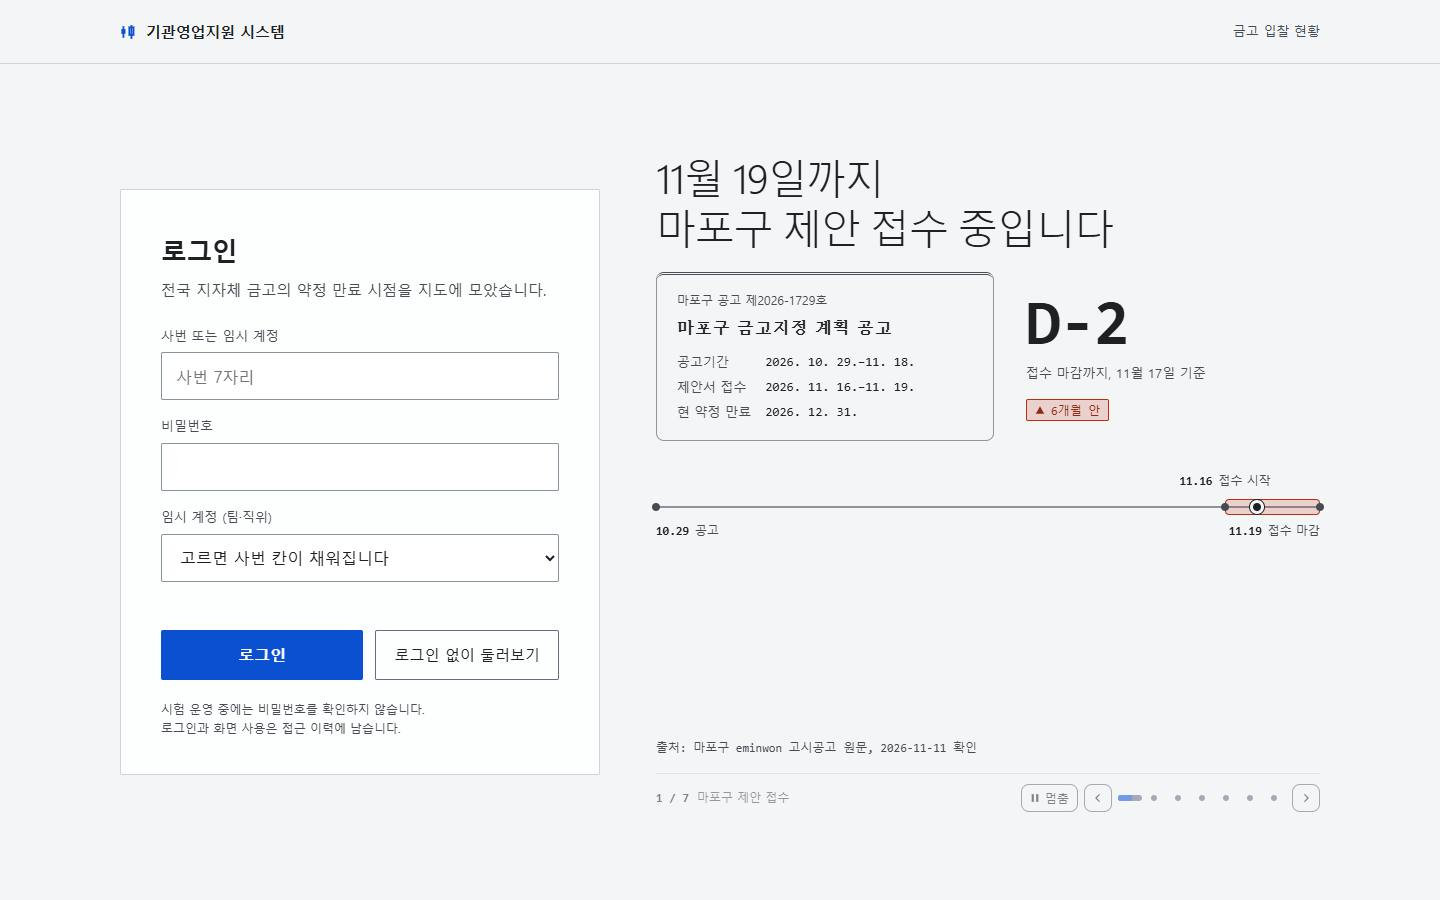
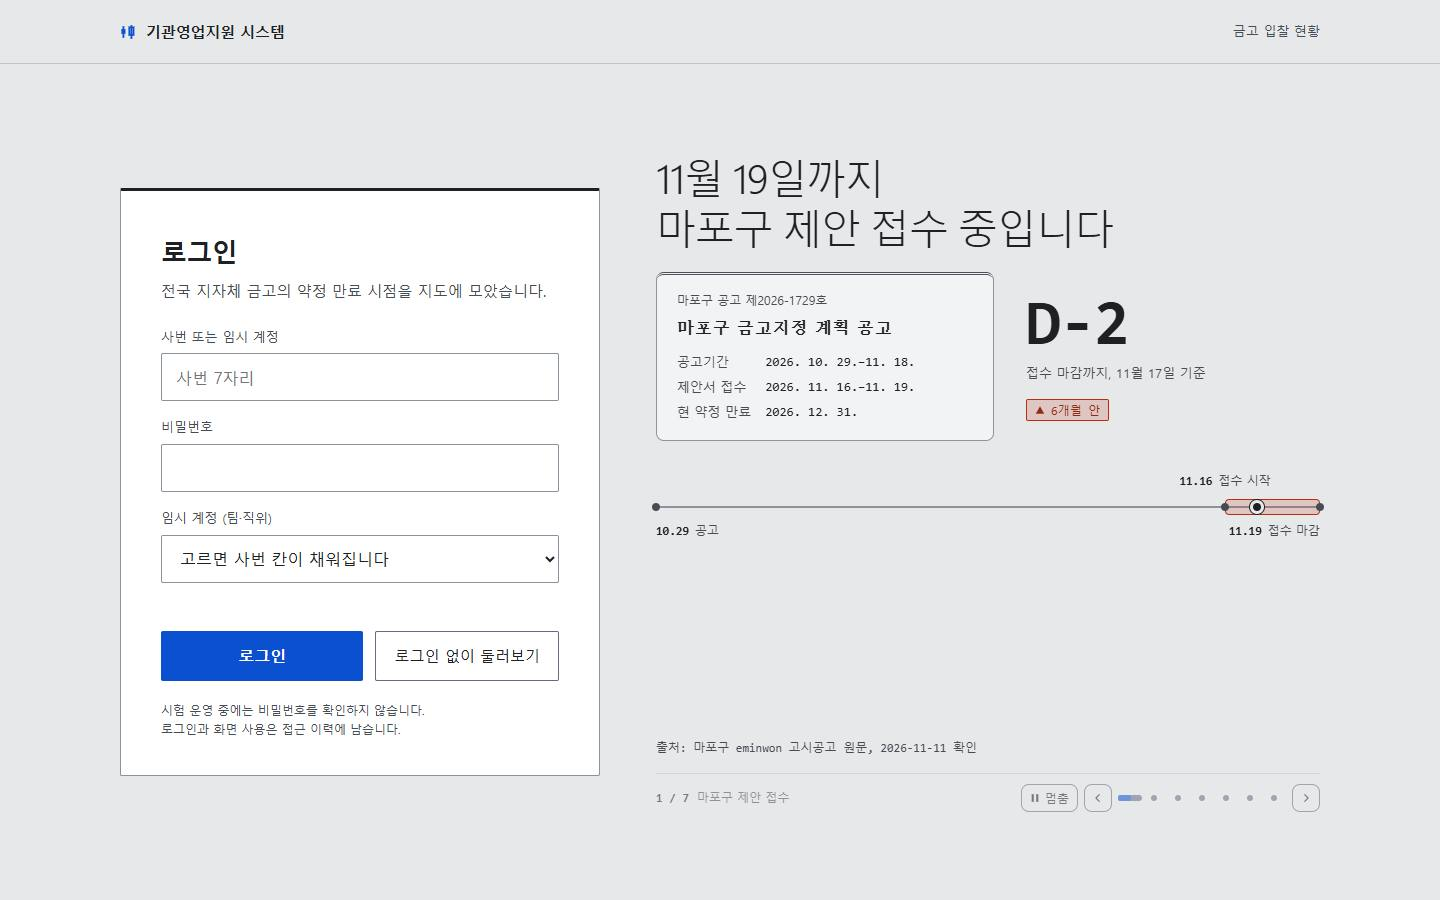
docs(97): 시안 B CSS가 빈 파일로 저장돼 공통 정리만 찍혔던 것 — 시안 B CSS 복원·캡처 2장 재촬영

diff --git a/handoff/agents/history/2026-11-17_97_mockAB/mockB_gray.css b/handoff/agents/history/2026-11-17_97_mockAB/mockB_gray.css
@@ -1,0 +1,13 @@
+:root{--bg:#e6e8ea;--panel2:#f1f3f5;--line:#bfc5cc}
+header{background:#fff;border-bottom:2px solid #1e2124}
+header h1{font-size:16px;font-weight:800}
+#side-nav{background:#fff;border-right-color:#bfc5cc}
+.nav-item.active{background:#e6e8ea;box-shadow:inset 3px 0 0 #1e2124;font-weight:700}
+#tab-bar{background:#f1f3f5}
+.stab.active{background:#fff;box-shadow:inset 0 2px 0 #1e2124}
+#topbar,#ticker-strip{background:#fff}
+#map-stage,#ov-panel,#rank-panel{border-color:#8a949e}
+.ov-head,.rank-head{background:#f1f3f5;backdrop-filter:none;border-bottom-color:#8a949e}
+#legend{background:#f1f3f5}
+#ov-title{font-size:15px;font-weight:800}
+.login-card{background:#fff;backdrop-filter:none;border-color:#8a949e;border-top:3px solid #1e2124}
